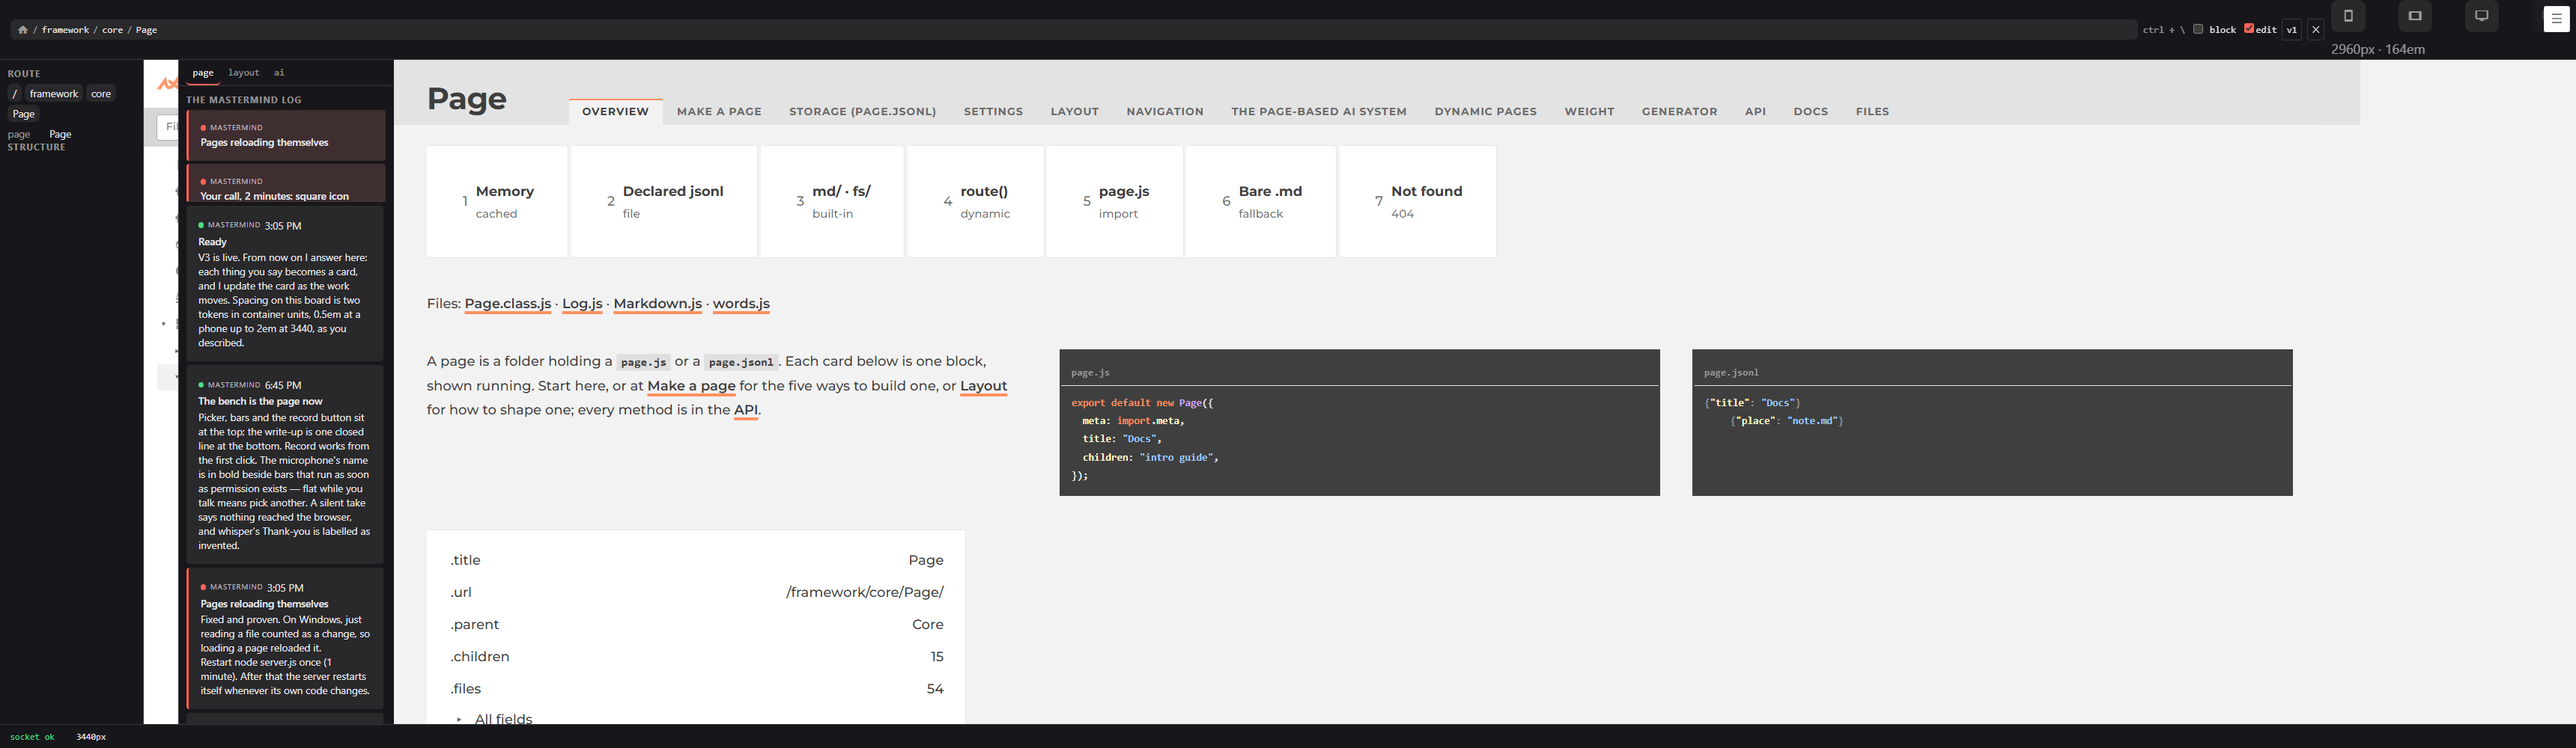
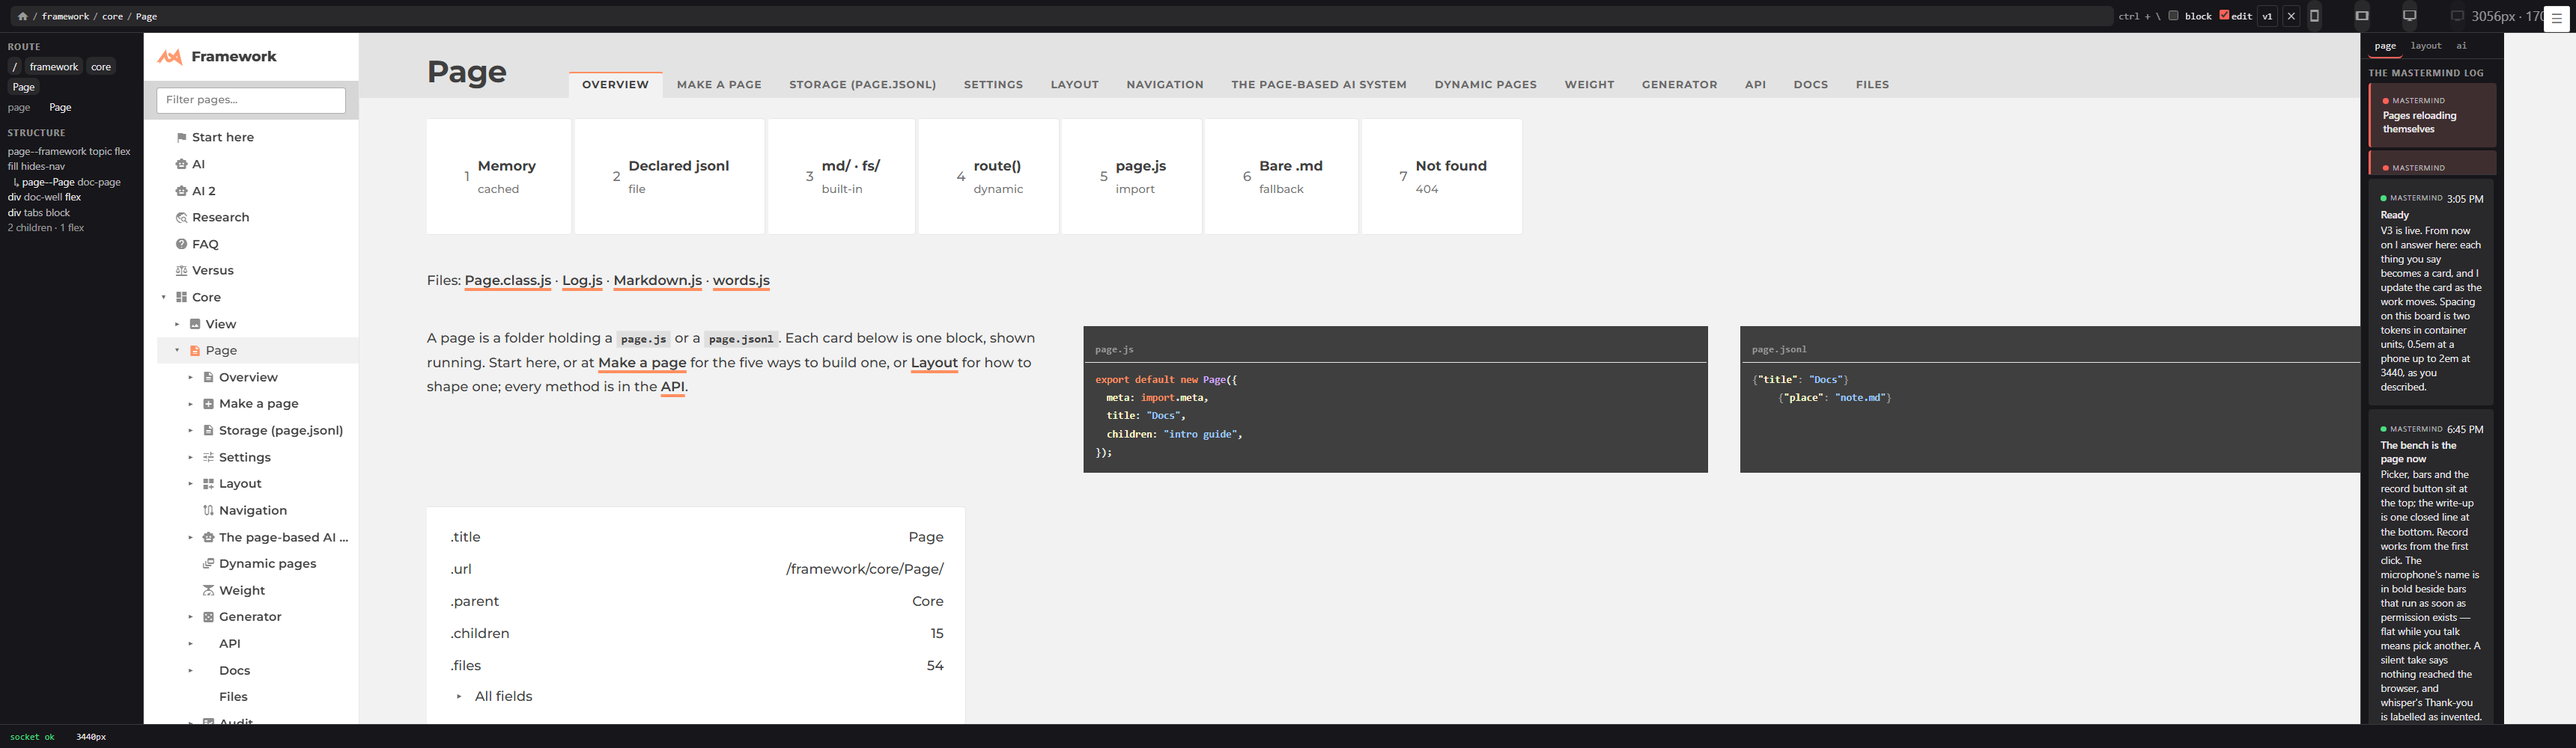
Fix DevShell: right rail at the edge, page pushed, header one line, structure populated
A reviewer caught four defects in the first screenshot. Three real bugs:

1 & 2 (one cause): core/Shell's auto/1fr/auto grid columns size an "auto"
track off its content's max-content when the item's own CSS width has an
unresolvable percentage (left/right's clamp(...,50%)) — the right rail's
paragraphs of text blew that column out past 1600px, landing the rail
beside the left one instead of at the window's edge and leaving the true
edge unpainted. Fixed in DevShell.css only: grid-template-columns with
definite lengths (the same --core-shell-*-w custom properties Shell.js
already writes) instead of relying on Shell.css's own auto tracks.

3: .dev-shell-head-line's width:100% starved its sibling (width.js's own
control) down to its internal wrap threshold, so the width readout wrapped
below the size icons — fixed with flex:1 1 auto; min-width:0 instead.

4: structure.js's own draw() only redraws inside a ".dev-body" ancestor
(a guard written for dev/DevBar's own box) — DevShell's tree/body boxes
now carry that class too.

Re-shot and looked at, not just re-run: 400/1920/3440, zero console
errors, the closed state still pixel-identical to the pre-shell page.

diff --git a/public/framework/dev/DevShell/DevShell.css b/public/framework/dev/DevShell/DevShell.css
@@ -16,8 +16,34 @@
 	   already 0 before this rule even runs. */
 	:root:not(.dev-shell-open) .dev-shell-root { display: none; }
 
+	/* ⚠ `core/Shell`'s own `.core-shell-grid` columns are `auto 1fr auto` —
+	   fine when `left`/`right`'s CSS width is used to size those `auto`
+	   tracks, but that width is `clamp(12rem, …, 50%)` (Shell.css), and a
+	   PERCENTAGE inside a clamp can't be resolved before the track itself is
+	   sized (the same chicken-and-egg problem percentages always have in an
+	   intrinsic-sizing context) — so the browser falls back to sizing the
+	   `auto` track off its CONTENT's own max-content width instead. This
+	   shell's right side holds paragraphs of real text (the mastermind log),
+	   whose max-content is "the whole paragraph on one line", easily over
+	   1000px — so the `right` track ballooned past the page's own middle,
+	   landing the dark rail right beside `left` instead of at the window's
+	   edge, and leaving the true right edge blank (nothing painted there,
+	   `main` never reaches that far right either). Fixed HERE, not in
+	   Shell.css: DEFINITE lengths for `left`/`right` (the same custom
+	   properties `Shell.js`'s own `size()` already writes on a drag, with the
+	   clamp's own 18rem default as the fallback) sidestep the percentage
+	   entirely, so `1fr` gets the real leftover width and `right` lands
+	   flush against the window's own edge. doc/decisions.md. */
+	.dev-shell-root .core-shell-grid {
+		grid-template-columns:
+			var(--core-shell-left-w, 18rem)
+			1fr
+			var(--core-shell-right-w, 18rem);
+	}
+
 	.dev-shell-head-line {
-		width: 100%;
+		flex: 1 1 auto;
+		min-width: 0;
 		gap: 0.5em;
 		font-family: var(--mono);
 		font-size: 0.8rem;

diff --git a/public/framework/dev/DevShell/DevShell.js b/public/framework/dev/DevShell/DevShell.js
@@ -42,7 +42,13 @@ export default function devshell(a){
 		frame: true,
 
 		header(){ head(); },
-		left(){ $tree = div.c("dev-shell-tree flex v"); },
+		// ⚠ `dev-body` too, on both — `structure.js`'s own `draw()` (reused
+		// here by import) only actually redraws when its box's
+		// `.closest(".dev-body")` finds something, a guard written for
+		// `dev/DevBar`'s own body box. Without this class the guard never
+		// matches here and the structure section stays permanently empty,
+		// no error, nothing to see: doc/decisions.md.
+		left(){ $tree = div.c("dev-shell-tree dev-body flex v"); },
 		right(){ right(); },
 		footer(){ $foot = div.c("dev-shell-foot flex v-center gap"); },
 	});
@@ -117,7 +123,9 @@ function edit_knob(){
 function right(){
 	div.c("dev-shell-tabs-wrap flex v", () => {
 		$tabs = div.c("dev-shell-tabs flex");
-		$body = div.c("dev-shell-body flex v");
+		// `dev-body` for the same reason `left()` carries it, above — the
+		// "page" tab can also show `structure`.
+		$body = div.c("dev-shell-body dev-body flex v");
 	});
 }
 

diff --git a/public/framework/dev/DevShell/doc/decisions.md b/public/framework/dev/DevShell/doc/decisions.md
@@ -29,6 +29,60 @@ two named things, but it is all real reuse-by-import with no fragile indexing, a
 or three lines (`says`, `server`, `xray`, `jump`) are the same short lines the old rail already
 shows on its own `page` tab.
 
+## Three real layout bugs a reviewer caught in the first screenshot, not a claim to take on faith
+
+The task mastermind rejected the first landing after looking at `shots/1920-open.png` itself: the
+right rail sat beside the left one instead of at the window's edge, the real page wasn't visibly
+pushed, the width readout hung below the header, and `STRUCTURE` was empty. All four turned out to
+be three bugs, fixed in this worktree, re-shot, and looked at again before re-landing:
+
+**1 & 2 — the right rail floating near the left, and the page looking uncovered.** One bug, two
+symptoms. `core/Shell`'s `.core-shell-grid` columns are `auto 1fr auto`, and an `auto` track sizes
+itself off its content's max-content width UNLESS the item's own CSS width is a plain, resolvable
+length — `left`/`right`'s width is `clamp(12rem, …, 50%)` (Shell.css), and that `50%` is a
+PERCENTAGE, which can't be resolved before the track itself has a size (the same chicken-and-egg
+problem percentages always hit in intrinsic sizing). So the browser fell back to sizing `right`'s
+column off its CONTENT's max-content instead — and this shell's right side holds paragraphs of
+real text (the mastermind log), whose max-content is "the whole paragraph on one line", well over
+1000px. The `right` column ballooned to ~1685px (measured), `main`'s `1fr` column got squeezed to
+22px, and `core-shell-right`'s own 288px-wide box sat at the START of that oversized column —
+right beside `left`, nowhere near the window's real edge — leaving the column's own unused width
+(522px to 1920px) with nothing painted in it at all (not even `main`'s hole, which is a separate,
+much narrower column). Fixed in `DevShell.css`, not `Shell.css` — the plain demos on `core/Shell`'s
+own page never hit this because their `main` has no full-window `frame` ancestor and their content
+is one short line, never a paragraph:
+
+```css
+.dev-shell-root .core-shell-grid {
+	grid-template-columns: var(--core-shell-left-w, 18rem) 1fr var(--core-shell-right-w, 18rem);
+}
+```
+
+The same custom properties `Shell.js`'s own `size()` already writes on a drag, with the clamp's own
+18rem default as the fallback — DEFINITE lengths, no percentage, so `1fr` gets the real leftover
+width and `right` lands flush against the window's edge.
+
+**3 — the width readout wrapping below the header.** `DevShell.css`'s own `.dev-shell-head-line`
+had `width: 100%` — meant for when it's the only thing in the head, but `head()` also appends
+`width(app)`'s own box as its SIBLING in the same `core-shell-head` flex row. `width: 100%` forces
+a flex item's basis to the full row, so with two items wanting the whole row's width, the OTHER one
+(`.dev-width`, which is `.flex.wrap` inside itself) got squeezed down to its own minimum — too
+narrow for its four size icons and the "1536px · 9em" text on one line, so the text wrapped below
+the icons, inside a box that was itself still a sibling of the path/buttons row, reading as "below
+the header" even though it never left `core-shell-head`. Fixed by giving `.dev-shell-head-line`
+`flex: 1 1 auto; min-width: 0` instead of a hardcoded `width: 100%` — it now grows into whatever
+`width(app)`'s own natural size leaves behind, instead of claiming the whole row regardless.
+
+**4 — `STRUCTURE` empty.** `structure.js`'s own `draw()` (reused here by import, never copied) only
+actually redraws its box when `$box.el.closest(".dev-body")` finds something — a guard written for
+`dev/DevBar`'s own body box, and DevShell's `$tree`/`$body` boxes carried no such class, so the
+guard silently never matched and the section stayed permanently blank (no error, since the check is
+`&&`, not a throw). Fixed by adding `dev-body` as an EXTRA class on both boxes (`DevShell.js`) —
+`dev-body`'s own CSS rules (`devbar.css`: `flex:1 1 auto; min-height:0; overflow-y:auto; …`) are
+harmless extras here too, not a conflict, and `DevShell.css`'s own rules for `.dev-shell-tree`/
+`.dev-shell-body` load after `devbar.css` in the cascade (app.js imports `devbar` before
+`devshell`), so this file's own padding/overflow choices still win wherever the two disagree.
+
 ## `dark: ["head","left","right","foot"]`, never `dark: true`
 
 The first headless proof (`shots/1920-open.png`) showed a shell that was dark everywhere —
